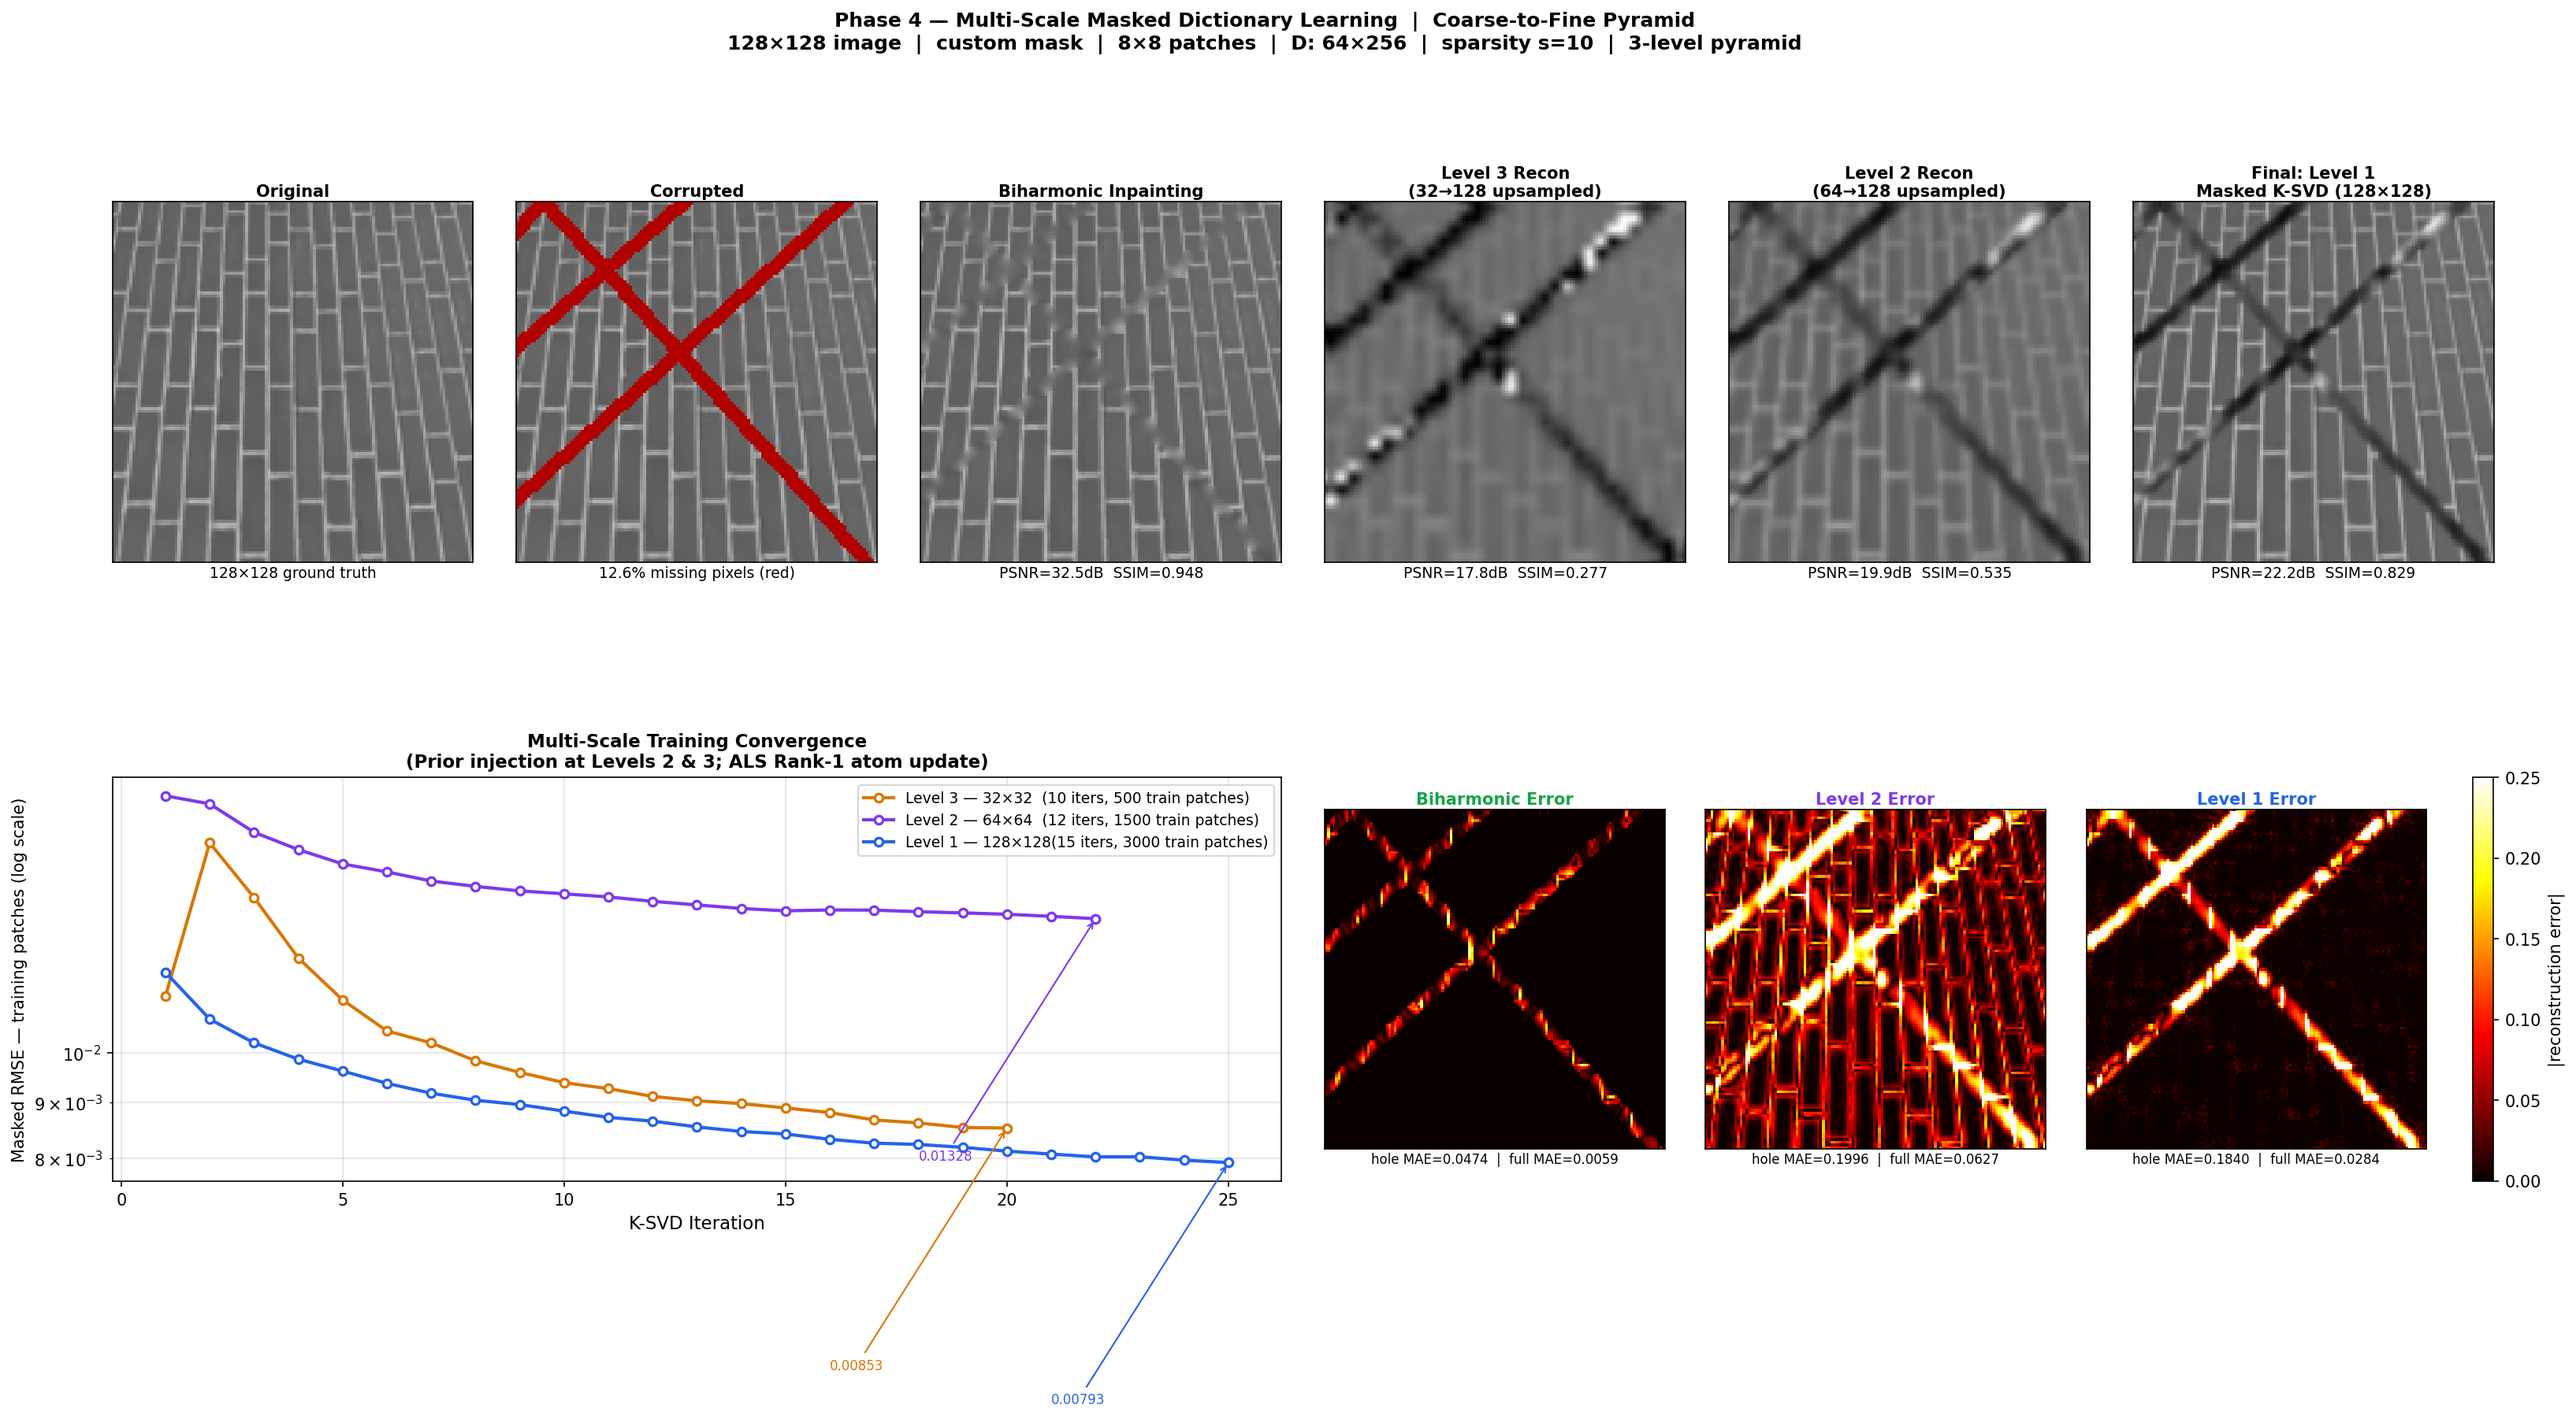
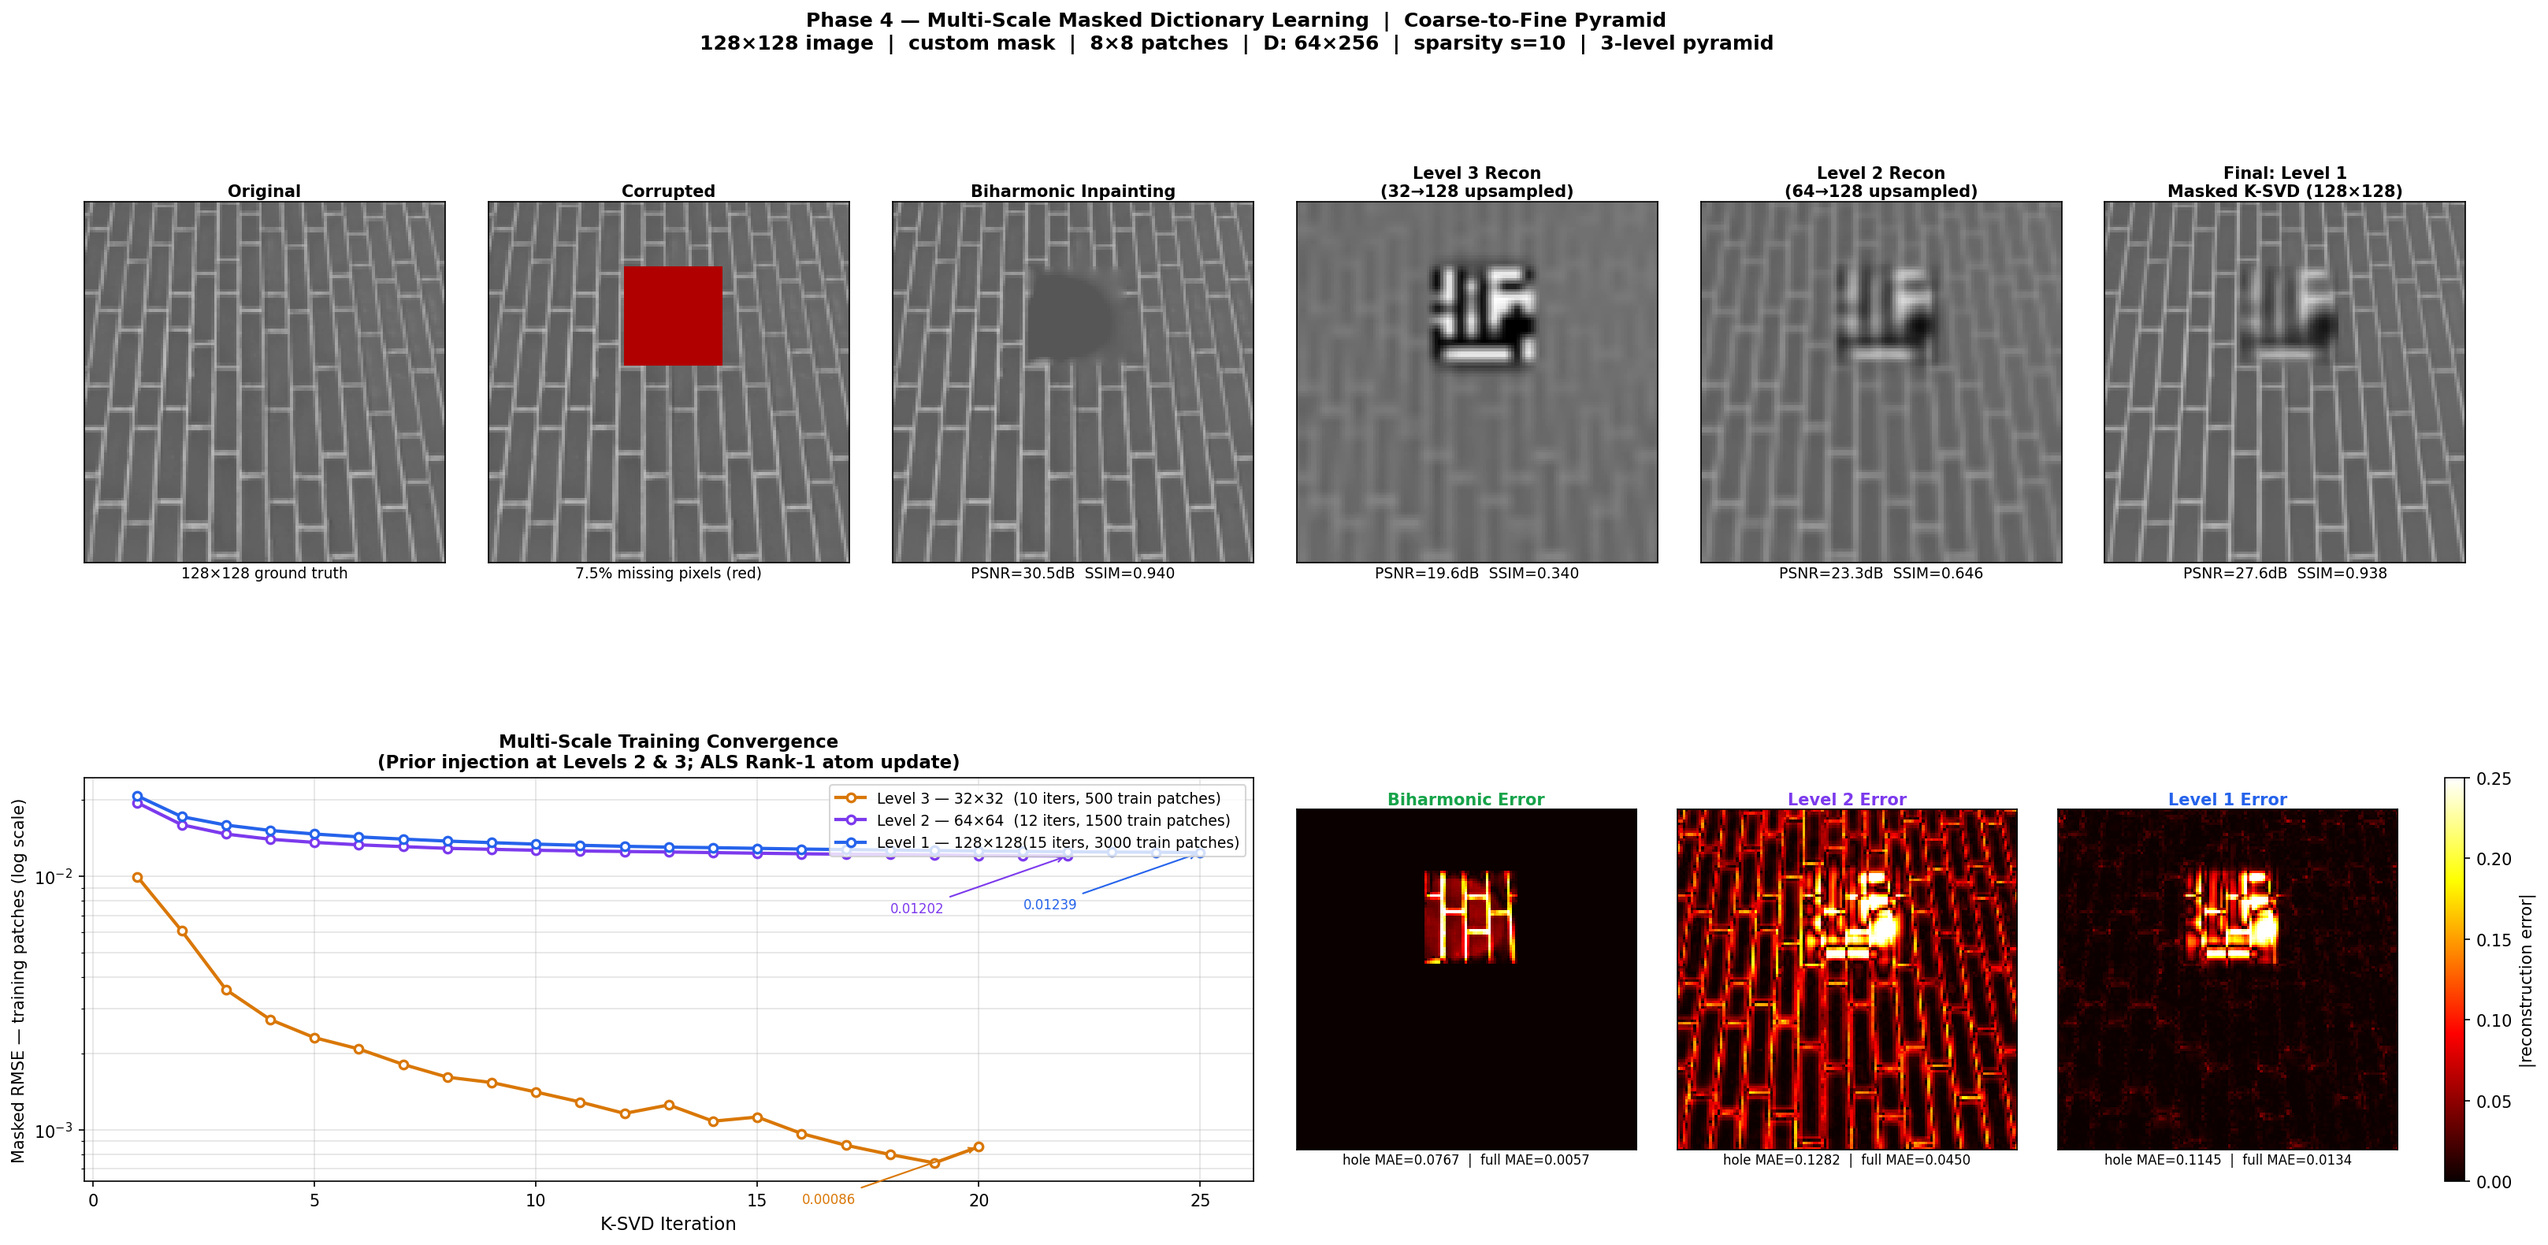
removed hole-only eval, (MAY NEED TO REVERT TO THIS)

diff --git a/inpainting_multiscale_masked_ksvd.py b/inpainting_multiscale_masked_ksvd.py
@@ -127,7 +127,7 @@ HOLE_C0, HOLE_C1 = 55, 75     # col slice  [C0, C1)  → 20 cols
 # Dictionary learning
 PATCH_SIZE   = (8, 8)
 PATCH_DIM    = 64              # 8*8
-N_ATOMS      = 256             # 4× overcomplete  (256 > 64)
+N_ATOMS      = 512             # 4× overcomplete  (256 > 64)
 SPARSITY     = 10              # nonzeros per patch code
 ALS_ITERS    = 10              # ALS steps inside each masked_ksvd_update_atom
 
@@ -135,9 +135,9 @@ ALS_ITERS    = 10              # ALS steps inside each masked_ksvd_update_atom
 #   n_train  : patches sampled for dictionary learning (speed vs quality)
 #   n_iter   : K-SVD outer iterations
 LEVEL_CFG = {
-    3: {"size": (32, 32),   "n_train": 500,  "n_iter": 20},
-    2: {"size": (64, 64),   "n_train": 1500, "n_iter": 22},
-    1: {"size": (128, 128), "n_train": 3000, "n_iter": 25},
+    3: {"size": (32, 32),   "n_train": 500,  "n_iter": 25},
+    2: {"size": (64, 64),   "n_train": 1500, "n_iter": 25},
+    1: {"size": (128, 128), "n_train": 3000, "n_iter": 20},
 }
 
 SEED = 42
@@ -819,29 +819,6 @@ def evaluate(img_true: np.ndarray, img_pred: np.ndarray, label: str) -> dict:
     return {"psnr": p, "ssim": s}
 
 
-def evaluate_hole_only(
-    img_true: np.ndarray,
-    img_pred: np.ndarray,
-    mask:     np.ndarray,
-    label:    str,
-) -> dict:
-    """
-    PSNR evaluated ONLY inside the hole (mask == 0).
-    This isolates the inpainting quality from background reconstruction.
-    """
-    n_missing = int((mask == 0).sum())
-    if n_missing == 0:
-        print(f"  {label:<45s}: Hole-PSNR =   N/A   (no missing pixels)")
-        return {"hole_psnr": np.nan}
-
-    hole_true = img_true[mask == 0]
-    hole_pred = img_pred[mask == 0]
-    mse  = np.mean((hole_true - hole_pred) ** 2)
-    psnr = 10 * np.log10(1.0 / (mse + 1e-12))
-    print(f"  {label:<45s}: Hole-PSNR = {psnr:6.2f} dB   (hole pixels only)")
-    return {"hole_psnr": psnr}
-
-
 # =============================================================================
 # VISUALISATION
 # =============================================================================
@@ -963,11 +940,10 @@ def plot_results(
         ax   = fig.add_subplot(ax_pos)
         err  = np.abs(img_pred - img_clean)
         ax.imshow(err, cmap='hot', vmin=0, vmax=vmax_err, interpolation='nearest')
-        mean_hole = err[mask_128 == 0].mean()
         mean_all  = err.mean()
         ax.set_title(title, fontsize=10, fontweight='bold', color=color, pad=3)
         ax.set_xlabel(
-            f"hole MAE={mean_hole:.4f}  |  full MAE={mean_all:.4f}",
+            f"full MAE={mean_all:.4f}",
             fontsize=8, labelpad=2
         )
         ax.set_xticks([]); ax.set_yticks([])
@@ -1164,13 +1140,6 @@ def main():
         'level2':     evaluate(img_clean, recon_64_at_128, "Level 2 (64→128 bilinear upsample)"),
         'level1':     evaluate(img_clean, recon_128,       "Level 1 — Masked K-SVD FINAL"),
     }
-
-    print()
-    print("  Hole-only evaluation (missing region exclusively):")
-    evaluate_hole_only(img_clean, img_bh,          mask_128, "Biharmonic inpainting")
-    evaluate_hole_only(img_clean, recon_32_at_128, mask_128, "Level 3 (32→128)")
-    evaluate_hole_only(img_clean, recon_64_at_128, mask_128, "Level 2 (64→128)")
-    evaluate_hole_only(img_clean, recon_128,       mask_128, "Level 1 — Masked K-SVD FINAL")
 
     # ---- PSNR improvement summary -------------------------------------------
     psnr_bh  = metrics['biharmonic']['psnr']
